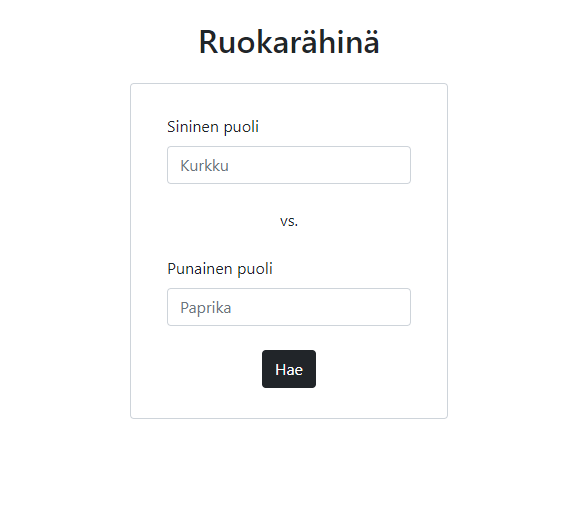
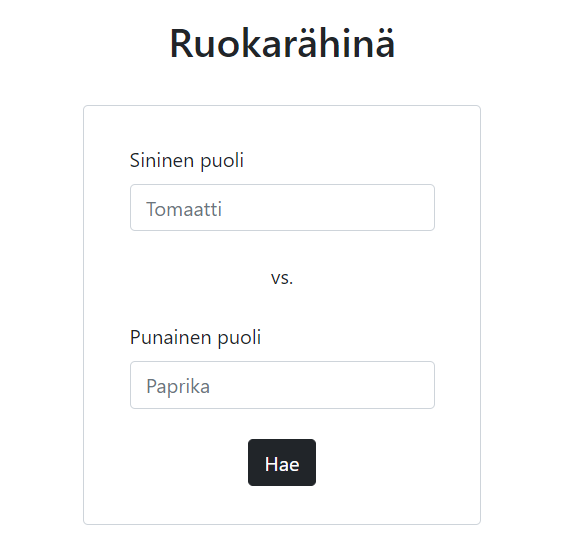
readme changes, added new images, changed forms for to htmlFor, used % in fightTimer instead of - so now there is no need for two setIntervals and fightDuration can be logged, log changes, style changes: logs summary is now centered and its content is aligned to the start, added key to tags in the m

diff --git a/frontend/src/components/BothStats.js b/frontend/src/components/BothStats.js
@@ -11,69 +11,58 @@ export default function BothStats(props) {
     const [logs, setLogs] = useState([])
 
     useEffect(() => {
-        Fight(props.blueStats, props.redStats) // eslint-disable-next-line react-hooks/exhaustive-deps
-    }, [])
 
-    const Fight = (blueStats, redStats) => {
+        const Fight = (blueStats, redStats) => {
 
-        let blueFightDuration = 0.0
-        let redFightDuration = 0.0
+            let fightDuration = 0.0
 
-        let redCurrentHp = redStats.hp
-        let blueCurrentHp = blueStats.hp
+            let redCurrentHp = redStats.hp
+            let blueCurrentHp = blueStats.hp
 
-        const blueTimer = setInterval(() => {
-            blueFightDuration += 0.1
+            setLogs(logs => [...logs, `[${fightDuration}s] Taistelu alkaa.`])
 
-            if(Math.floor(blueFightDuration * 10) / 10 - parseFloat(blueStats.attackDelay) === 0.0){
+            const fightTimer = setInterval(() => {
+                fightDuration += 0.1
 
-                redCurrentHp -= blueStats.attack - blueStats.attack * (redStats.defence / 100)
+                if(Math.floor(fightDuration * 10) % (blueStats.attackDelay * 10) / 10 === 0){
+                    redCurrentHp -= blueStats.attack - blueStats.attack * (redStats.defence / 100)
 
-                setRedHp(redCurrentHp)
-
-                blueFightDuration = 0
-
-                setLogs(logs => [...logs, `${blueStats.name} löi ja teki ${(blueStats.attack - blueStats.attack * (redStats.defence / 100)).toFixed(1)} (${blueStats.attack} - ${blueStats.attack} * ${(redStats.defence / 100).toFixed(3)}) vahinkoa. ${redStats.name}lle jäi ${redCurrentHp.toFixed(1)} HP:ta.`])
-
-                if(redCurrentHp <= 0){
-                    redCurrentHp = 0
                     setRedHp(redCurrentHp)
-                    clearInterval(blueTimer)
-                    clearInterval(redTimer)
 
-                    setLogs(logs => [...logs, `${blueStats.name} voitti!`])
-                    setWinner(blueStats.name)
-                }
-            }
+                    setLogs(logs => [...logs, `[${Math.floor(fightDuration * 10) / 10}s] ${blueStats.name} löi ja teki ${(blueStats.attack - blueStats.attack * (redStats.defence / 100)).toFixed(1)} (${blueStats.attack} - ${blueStats.attack} * ${(redStats.defence / 100).toFixed(3)}) vahinkoa. ${redStats.name}lle jäi ${redCurrentHp.toFixed(1)} HP:ta.`])
 
-        }, 100)
+                    if(redCurrentHp <= 0){
+                        redCurrentHp = 0
+                        setRedHp(redCurrentHp)
+                        clearInterval(fightTimer)
 
-        const redTimer = setInterval(() => {
-            redFightDuration += 0.1
+                        setLogs(logs => [...logs, `[${Math.floor(fightDuration * 10) / 10}s] ${blueStats.name} voitti!`])
+                        setWinner(blueStats.name)
+                    }
+                }else if(Math.floor(fightDuration * 10) % (redStats.attackDelay * 10) / 10 === 0){
 
-            if(Math.floor(redFightDuration * 10) / 10 - parseFloat(redStats.attackDelay) === 0.0){
+                    blueCurrentHp -= redStats.attack - redStats.attack * (blueStats.defence / 100)
 
-                blueCurrentHp -= redStats.attack - redStats.attack * (blueStats.defence / 100)
-
-                setBlueHp(blueCurrentHp)
-                
-                redFightDuration = 0
-
-                setLogs(logs => [...logs, `${redStats.name} löi ja teki ${(redStats.attack - redStats.attack * (blueStats.defence / 100)).toFixed(1)} (${redStats.attack} - ${redStats.attack} * ${(blueStats.defence / 100).toFixed(3)}) vahinkoa. ${blueStats.name}lle jäi ${blueCurrentHp.toFixed(1)} HP:ta.`])
-                
-                if(blueCurrentHp <= 0){
-                    blueCurrentHp = 0
                     setBlueHp(blueCurrentHp)
-                    clearInterval(blueTimer)
-                    clearInterval(redTimer)
 
-                    setLogs(logs => [...logs, `${redStats.name} voitti!`])
-                    setWinner(redStats.name)
+                    setLogs(logs => [...logs, `[${Math.floor(fightDuration * 10) / 10}s] ${redStats.name} löi ja teki ${(redStats.attack - redStats.attack * (blueStats.defence / 100)).toFixed(1)} (${redStats.attack} - ${redStats.attack} * ${(blueStats.defence / 100).toFixed(3)}) vahinkoa. ${blueStats.name}lle jäi ${blueCurrentHp.toFixed(1)} HP:ta.`])
+                    
+                    if(blueCurrentHp <= 0){
+                        blueCurrentHp = 0
+                        setBlueHp(blueCurrentHp)
+                        clearInterval(fightTimer)
+
+                        setLogs(logs => [...logs, `[${Math.floor(fightDuration * 10) / 10}s] ${redStats.name} voitti!`])
+                        setWinner(redStats.name)
+                    }
                 }
-            }
+            }, 100)
+        }
 
-        }, 100)
-    }
+        if(winner === "")
+            Fight(props.blueStats, props.redStats) 
+        // eslint-disable-next-line react-hooks/exhaustive-deps
+    }, []) 
     
     return (
         <>
@@ -84,7 +73,7 @@ export default function BothStats(props) {
                     </div>
                 : ""
             }
-            <div className="d-flex justify-content-center p-4">
+            <div className="d-flex justify-content-center pt-3">
 
                 <StatsDisplay stats={props.blueStats} hp={blueHp / props.blueStats.hp * 100} isBlue={true} />
 
@@ -98,17 +87,19 @@ export default function BothStats(props) {
                 <StatsDisplay stats={props.redStats} hp={redHp / props.redStats.hp * 100}/>
             </div>
 
+            <div className="d-flex justify-content-center">
 
-            <details className="text-center">
-                <summary className="pb-2">Lokit</summary>
+                <details className="d-flex justify-content-start">
+                    <summary className="text-center pb-4">Lokit</summary>
 
-                {
-                    logs.map(log => (
-                        <p>{log}</p>
-                    ))
-                }
-                
-            </details>
+                    {
+                        logs.map((log, index) => (
+                            <p key={index}>{log}</p>
+                        ))
+                    }
+                    
+                </details>
+            </div>
         </>
     )
 }

diff --git a/frontend/src/App.js b/frontend/src/App.js
@@ -59,25 +59,25 @@ function App() {
   return (
     <div className="container p-4">
 
-      <h2 className="text-center">Ruokarähinä</h2>
+      <h2 className="text-center pb-4">Ruokarähinä</h2>
 
       {
         error ? <h4 className="text-center">Error: {error}</h4> : ""
       }
 
-    <div className="d-flex justify-content-center pt-3">
+    <div className="d-flex justify-content-center">
 
       {
-        isShown ? <div className="form-control w-25 ">
+        isShown ? <div className="form-control w-25">
 
         <form className="p-4" onSubmit={Fetch}>
 
-          <label className="form-label" for="blueInput">Sininen puoli</label>
-          <input id="blueInput" type="text" className="form-control" placeholder="Kurkku" onChange={e => setBlue(e.target.value)} required/>
+          <label className="form-label" htmlFor="blueInput">Sininen puoli</label>
+          <input id="blueInput" type="text" className="form-control" placeholder="Tomaatti" onChange={e => setBlue(e.target.value)} required/>
 
           <p className="text-center pt-4 mb-0">vs.</p>
 
-          <label className="form-label pt-4" for="redInput">Punainen puoli</label>
+          <label className="form-label pt-4" htmlFor="redInput">Punainen puoli</label>
           <input id="redInput" type="text" className="form-control" placeholder="Paprika" onChange={e => setRed(e.target.value)} required/>
 
           <div className="pt-4 text-center">
@@ -91,7 +91,7 @@ function App() {
 
     {
       stats.length === 2 ?
-      <div className="pt-4 pb-2">
+      <div className="pb-2">
           <BothStats blueStats={stats[0]} redStats={stats[1]} />
         </div>
         : ""

diff --git a/README.md b/README.md
@@ -17,7 +17,9 @@ Frontend on tehty React.js + Bootstrap 5 yhdistelmällä ja backend on toteutett
   
 ## Muutaman lauseen kuvaus tekemästäsi ratkaisusta
 
-Olen vasta tänä syksynä alkanut opettelemaan Reactin + Bootstrap 5:n käyttöä, joten toteutuksesta ei kovin elegantti tullut, mutta toimivan ratkaisun sain silti tehtyä. Frontendin puolella tuli käytettyä flexboxeja Bootstrapin avulla ja backendi hakee finelin apista elintarvikkeiden ravintoarvot ja palauttaa ne frontendille jsonilla. Vähäsen harmittaa se miten toteutin pelilogiikkani (mm. käytin kahta setInervallia enkä tehnyt molempia samassa + prop drilling). Aloitin varsin myöhään tämän projektin tekemisen (28 päivä), joten se tuli myös tehtyä aika kiireellä. Kaiken kaikkiaan oikeen mukava koodihaaste ja olisi kiva tehdä näitä myös jatkossa.
+Olen vasta tänä syksynä alkanut opettelemaan Reactin + Bootstrap 5:n käyttöä, joten toteutuksesta ei kovin elegantti tullut, mutta toimivan ratkaisun sain silti tehtyä. Frontendin puolella tuli käytettyä flexboxeja Bootstrapin avulla. Backend hakee Finelin API:sta elintarvikkeiden ravintoarvot ja palauttaa ne frontendille jsonilla.
+
+Alussa oli vähän vaikeuksia kun ei modulon käyttö tullut heti mieleen, niin käytin kahta setIntervallia tappelun logiikan hoitamiseen ja miinustelin attackDelaytä, mutta hoksasin käyttää sitä sitten lopuksi. Kaiken kaikkiaan oikeen mukava koodihaaste ja olisi kiva tehdä näitä myös jatkossa.
 
 ## Muuta
 
@@ -29,6 +31,6 @@ Haluan osallistua kilpailuun ja arvontaan sekä minuun voi ottaa yhteyttä mikä
 
 ![peli kännissä](./images/game_on.png)
 
-![Peli ohi](./images/game_won.png)
+![Peli ohi](./images/game_end.png)
 
 ![Lokit](./images/logs.png)
